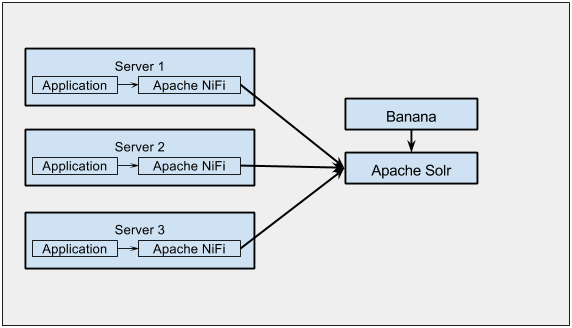
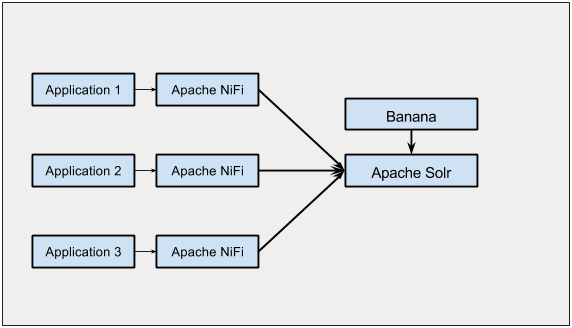
updating diagrams for collection logs post

Changed region(s): [[0.0297, 0.3659, 0.8322, 0.8232], [0.0297, 0.122, 0.5052, 0.3659], [0.5052, 0.3659, 0.5647, 0.4573]]

diff --git a/_posts/2015-05-17-collecting-logs-with-apache-nifi.md b/_posts/2015-05-17-collecting-logs-with-apache-nifi.md
@@ -15,9 +15,8 @@ most common open-source approaches to large-scale log aggregation are:
 * Flume (using MorphlineSolrSink) + Solr + Hue or Banana
 * Graylog2 (GELF, Graylog Server, Graylog Web UI)
 
-Each approach is generally made up of components that collect logs, process and store logs, and visualizes logs. The 
-flexibility of Apache NiFi (incubating) makes it easy to create a system for collecting logs. The remainder of this 
-post will show how to integrate NiFi, Solr, and Banana to create the following example:
+The remainder of this post will show how to integrate Apache NiFi, Apache Solr, and Banana to create a system for 
+collecting logs. The following diagram shows how the components of the system will interact:
 
 <img src="{{ BASE_PATH }}/assets/images/log-aggregation/01-log-aggregation-architecture.png" class="img-responsive">
 
@@ -49,6 +48,9 @@ the "gettingstarted" collection is up and running
 * Configure the Time Picker panel and change the field to "_timestamp"
 
 ### NiFi Setup
+
+Note: This is based off the NiFi develop branch at the time of writing this, as there are some features not yet 
+available in a released version that we need to make use of.
 
 * Clone the following repository:
 
